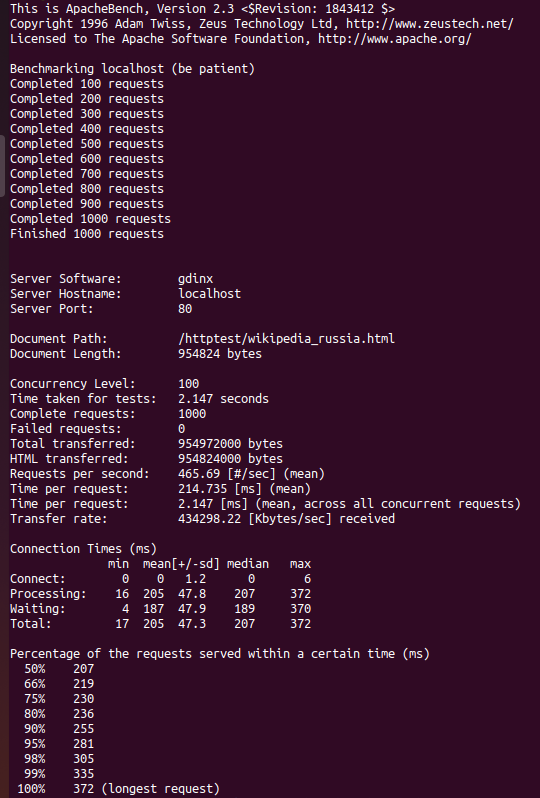
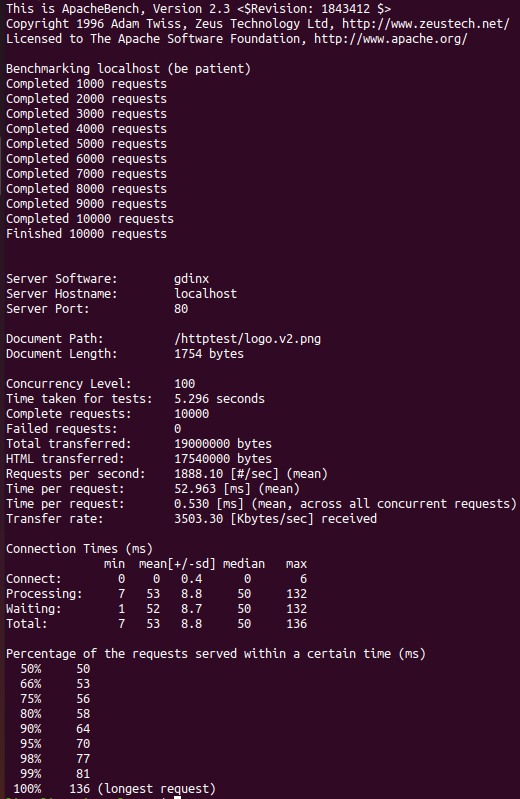
Change ab requests number

diff --git a/README.md b/README.md
@@ -26,7 +26,7 @@ git clone https://github.com/init/http-test-suite.git
 ## Нагрузка через ab:
 
 ```
-ab -n 1000 -c 100 localhost/httptest/wikipedia_russia.html
+ab -n 10000 -c 100 localhost/httptest/logo.v2.png
 ```
 
 ## Запуск nginx:
